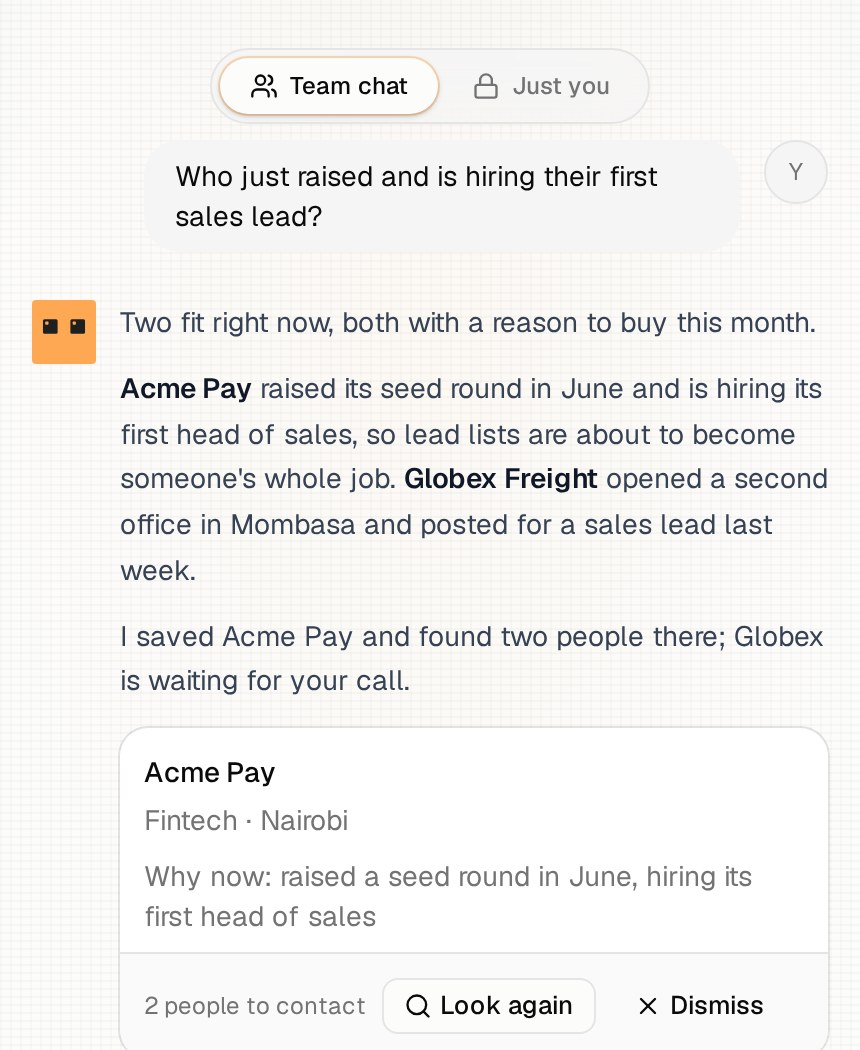
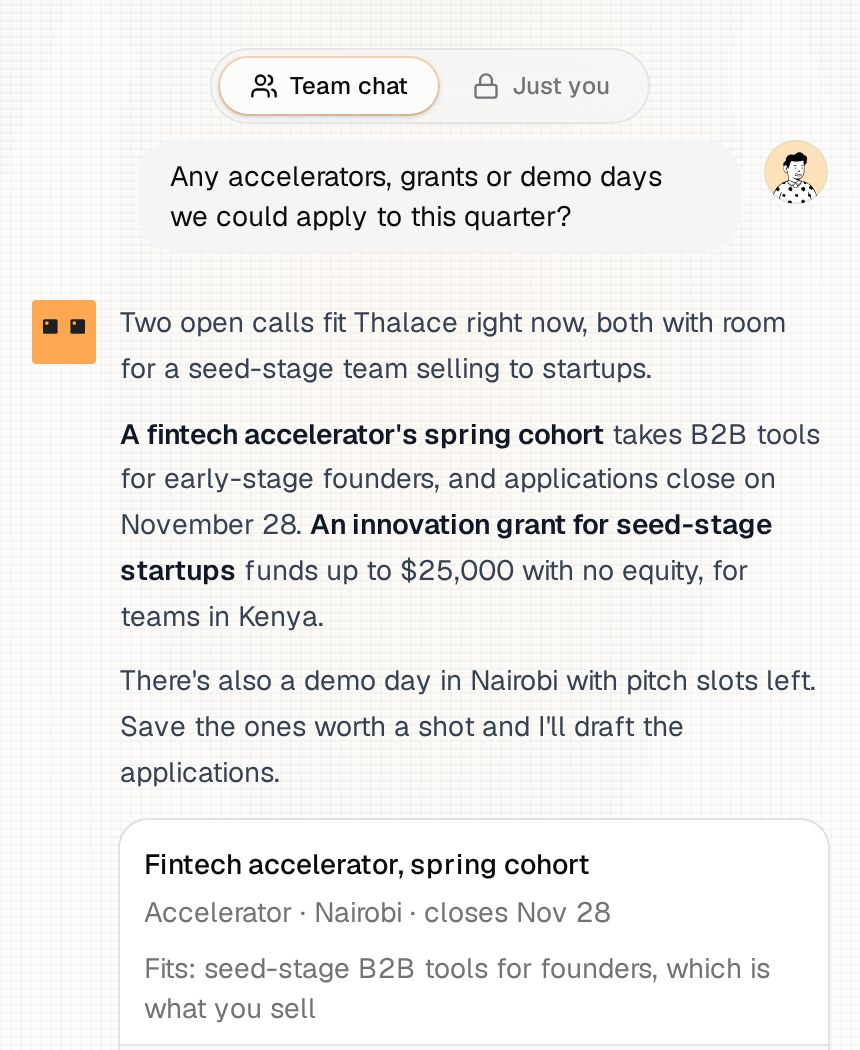
Put Kalev's face in the hero's chat and step 1, and ask about opportunities
- The hero screenshot is retaken with Kalev Mokua as the founder, with an
  avatar beside the question instead of "Y", and a new ask: "Any
  accelerators, grants or demo days we could apply to this quarter?" Lace
  answers with a fintech accelerator's spring cohort and an innovation
  grant as opportunity cards (Save, Not for us), and next asks. The
  callouts and alt text follow.
- How it works, step 1: "Kalev Mokua joined" with the same avatar, in
  place of "Your cofounder joined" and a "C".

Avatars are Notionists by Zoish via DiceBear (CC0 1.0), in public/people/.
The programmes in the screenshot are invented.

diff --git a/waitlist/src/components/app-shot.tsx b/waitlist/src/components/app-shot.tsx
@@ -7,8 +7,8 @@ import { DemoFrame } from './demo-frame'
 // image, which is the one shown from sm up. The phone crop gets none.
 const CALLOUTS: { text: string; left: string; top: string }[] = [
   { text: 'Your whole team, one chat', left: '4%', top: '3%' },
-  { text: 'A lead, and why now', left: '27%', top: '51.5%' },
-  { text: 'Saved only when you say', left: '55%', top: '74%' },
+  { text: 'An opportunity, and why it fits', left: '22%', top: '46.5%' },
+  { text: 'Saved only when you say', left: '50%', top: '89%' },
 ]
 
 /** The hero's showcase: the real app, a Lace's team chat, captured with
@@ -23,7 +23,7 @@ export function AppShot() {
         <picture>
           <source media="(max-width: 639px)" srcSet="/shots/lace-chat-phone.jpg" width={860} height={1050} />
           <img src="/shots/lace-chat.jpg" width={1632} height={1224} className="block h-auto w-full"
-               alt="Thalace’s Lace in its team chat: asked who just raised and is hiring a first sales lead, it answers with two startups, Acme Pay (saved, two people to contact) and Globex Freight (waiting to be saved or dismissed), and suggests what to ask next." />
+               alt="Thalace’s Lace in its team chat: Kalev asks for accelerators, grants or demo days to apply to this quarter, and it answers with a fintech accelerator’s spring cohort and an innovation grant, each with why it fits and Save or Not for us, then suggests what to ask next." />
         </picture>
         <ul key={run} aria-hidden className="hidden sm:block">
           {CALLOUTS.map((c, i) => (

diff --git a/waitlist/src/components/how-it-works-scenes.tsx b/waitlist/src/components/how-it-works-scenes.tsx
@@ -30,7 +30,7 @@ const LEARNED = [
 ]
 
 /** Step 1: Lace is printed while its name and website type in, then shows
- * what it learned; it's confirmed, and a cofounder joins. */
+ * what it learned; it's confirmed, and a cofounder (Kalev) joins. */
 export function BornScene({ still }: SceneProps) {
   const [printed, setPrinted] = useState(still)
   const rise = still ? '' : 'rise-in'
@@ -79,8 +79,8 @@ export function BornScene({ still }: SceneProps) {
           </span>
         </div>
         <p className={`flex items-center gap-2 text-[13px] ${rise}`} style={at(5.3)}>
-          <span className="grid size-6 place-items-center rounded-full bg-ink text-[11px] font-semibold text-paper">C</span>
-          Your cofounder joined
+          <img src="/people/kalev.svg" alt="" width={24} height={24} className="size-6 rounded-full" />
+          Kalev Mokua joined
         </p>
       </div>
     </div>

diff --git a/waitlist/README.md b/waitlist/README.md
@@ -23,7 +23,9 @@ backend as the app (see `deploy/`).
 Until a recording is published, the hero shows a screenshot of the real app
 (`app-shot.tsx`): Thalace's own Lace in its team chat, filled with invented
 example data. `scripts/capture-app-shot.mjs` retakes it from a running app
-(instructions in the script) into `public/shots/`. To show a recording instead:
+(instructions in the script) into `public/shots/`. The faces in it and in How it
+works (`public/people/`) are Notionists avatars by Zoish via DiceBear, CC0 1.0.
+To show a recording instead:
 
 1. **Record** (~20 s once edited, no audio) at 1440×900, browser zoom 110–125%,
    light theme. Storyboard: name a Lace and paste the website on `/new` → the
